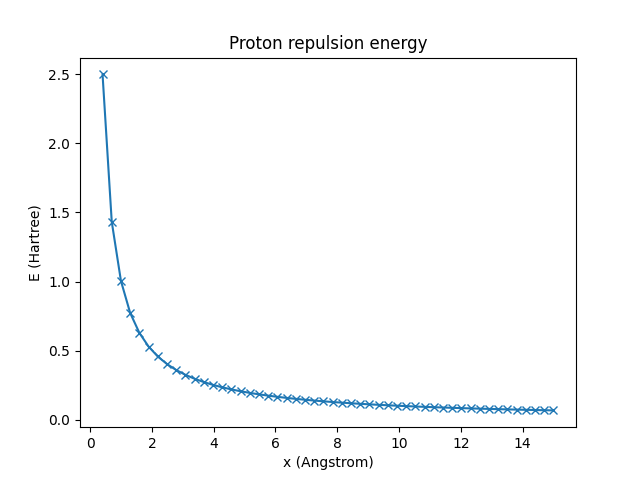
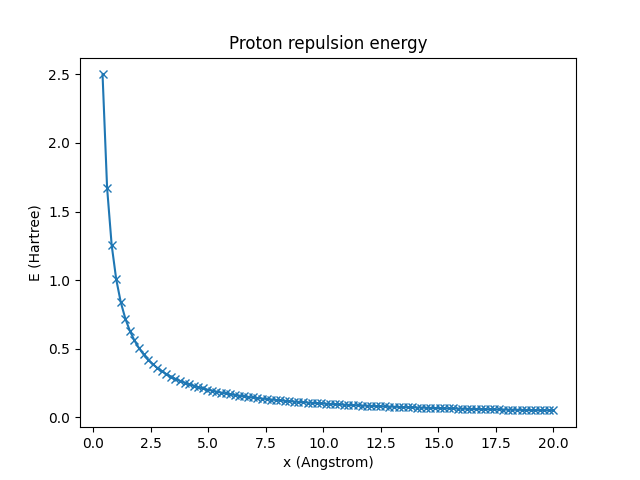
last becke script + Energy plots

diff --git a/examples/dft/H2_RHF_STO3G_becke.py b/examples/dft/H2_RHF_STO3G_becke.py
@@ -12,7 +12,7 @@ import matplotlib.pyplot as plt
 from becke_partitionning import normalized_cell_functions
 
 pi = np.pi
-seed = 123
+seed = 12
 np.random.seed(seed)
 
 #############################################
@@ -231,27 +231,42 @@ def Coulomb(Vee,P):
     Vcoulomb = np.einsum('ijkl,kl->ij',Vee,P) 
     return Vcoulomb
 
-def density(X,P,S):
+def density(rho,orbitals,P,S):
     """computing density at each points of discretized grid
 
     X : Points where to compute density
     P : density matrix
     S : overlap matrix
     """
-    B = np.hstack([orbital(X) for orbital in orbitals])
-    BB = np.einsum('ni,nj->nij',B,B)
-    rho = np.einsum('ij,nij->n',P,BB).reshape(-1,1) 
+    n = len(orbitals)
+
+    # computing volumic functionnal potential beforehand
+    for ii in range(n):
+        for jj in range(ii+1,n):
+            # center of the first cell
+            R1 = orbitals[ii].x
+            # center of the secind cell
+            R2 = orbitals[jj].x
+
+            # 1 -> 2
+            # centering integrals at center of cell 1
+            Dx = X_cartesian_int + R1
+            B = np.hstack([orbital(Dx) for orbital in orbitals])
+            BB = np.einsum('ni,nj->nij',B,B)
+            rho[ii,jj,0] = np.einsum('ij,nij->n',P,BB).reshape(-1,1) 
+
+            # 2 -> 1
+            # centering integrals at center of cell2
+            Dx = X_cartesian_int + R2
+            B = np.hstack([orbital(Dx) for orbital in orbitals])
+            BB = np.einsum('ni,nj->nij',B,B)
+            rho[ii,jj,1] = np.einsum('ij,nij->n',P,BB).reshape(-1,1) 
 
     # L1-normalization the density with Density and Overlap matrices
     norm = np.einsum('ij,ij',P,S)
     return rho/norm
 
-def vx(rho):
-    """volumic LDA-functionnal"""
-    return -(3.0*rho/pi)**(1/3)
-
-
-def LDA(orbitals,P,S):
+def LDA(orbitals,rho):
     """LDA operator in atomic orbital basis
 
     orbitals : list containing AO objects
@@ -269,23 +284,14 @@ def LDA(orbitals,P,S):
     # computing volumic functionnal potential beforehand
     for ii in range(n):
         for jj in range(ii+1,n):
-            # center of the first cell
-            R1 = orbitals[ii].x
-            # center of the secind cell
-            R2 = orbitals[jj].x
-
             # 1 -> 2
             # centering integrals at center of cell 1
-            Dx = X_cartesian_int + R1
-            rho = density(Dx,P,S)
-            vx_X = vx(rho)
+            vx_X = vxc(rho[ii,jj,0])
             Vx_X[ii,jj,0] = vx_X
 
             # 2 -> 1
             # centering integrals at center of cell2
-            Dx = X_cartesian_int + R2
-            rho = density(Dx,P,S)
-            vx_X = vx(rho)
+            vx_X = vxc(rho[ii,jj,1])
             Vx_X[ii,jj,1] = vx_X
 
     # loop over AO
@@ -310,7 +316,7 @@ def LDA(orbitals,P,S):
                     # fuzzy cell weight function centered at 1
                     wcell, _ = normalized_cell_functions(Dxx,R1,R2)
                     # Chebyshev + Lebedenev quadrature + variable substitution for radial component (R/Mu)
-                    Vx[i,j] += np.einsum(
+                    Vx[i,j] += 4.0*pi*np.einsum(
                         'ij,ij',
                         wcell*orbital_i(Dxx)*orbital_j(Dxx)*vx_X*subs,
                         Wint
@@ -320,7 +326,7 @@ def LDA(orbitals,P,S):
                     vx_X = Vx_X[ii,jj,1]
                     Dxx = X_cartesian_int + R2
                     _, wcell = normalized_cell_functions(Dxx,R1,R2)
-                    Vx[i,j] += np.einsum(
+                    Vx[i,j] += 4.0*pi*np.einsum(
                         'ij,ij',
                         wcell*orbital_i(Dxx)*orbital_j(Dxx)*vx_X*subs,
                         Wint
@@ -334,11 +340,20 @@ def density_matrix(c):
     c = c[:,0:1]
     return  2.0 * c@c.T
 
+
+def vxc(rho):
+    """volumic LDA-functionnal"""
+    vx = -(3.0*rho/pi)**(1/3)
+    vc = 0.0
+    return vx + vc
+
 def exc(rho):
     """volumic exchance-correlation energy"""
-    return -(3.0/4.0)*(3.0/pi*rho)**(1/3)
+    ex = -(3.0/4.0)*(3.0/pi*rho)**(1/3)
+    ec = 0.0
+    return ex + ec 
 
-def energy(orbitals,Hcore,Vcoulomb,S,P):
+def energy(rho,orbitals,Hcore,Vcoulomb,P):
     """computing energy of the system
     orbitals : list of AO objects
     Hcore : Core Hamiltonian in AO basis
@@ -347,13 +362,12 @@ def energy(orbitals,Hcore,Vcoulomb,S,P):
     P : density matrix
     """
     Ecore    = np.sum(P*Hcore)
-    Ecoulomb = np.sum(P*Vcoulomb)/2.0
-    #rho      = density(Xint,orbitals,P)
-    #Exc      = np.sum(rho*exc(rho))*dx**3
+    Ecoulomb = np.sum(P*Vcoulomb*0.5)
 
     Exc = 0.0
-    n = len(orbitals)
+
     # loop over fuzzy cells
+    n = len(orbitals)
     for ii in range(n):
         for jj in range(ii+1,n):
             R1 = orbitals[ii].x
@@ -361,21 +375,19 @@ def energy(orbitals,Hcore,Vcoulomb,S,P):
 
             # 1 -> 2
             Dx = X_cartesian_int + R1
-            rho = density(Dx,P,S)
             wcell, _ = normalized_cell_functions(Dx,R1,R2)
-            Exc += np.einsum(
+            Exc += 4.0*pi*np.einsum(
                 'ij,ij',
-                wcell*rho*exc(rho)*subs,
+                wcell*rho[ii,jj,0]*exc(rho[ii,jj,0])*subs,
                 Wint
             )
 
             # 2 -> 1
             Dx = X_cartesian_int + R2
-            rho = density(Dx,P,S)
             _, wcell = normalized_cell_functions(Dx,R1,R2)
-            Exc += np.einsum(
+            Exc += 4.0*pi*np.einsum(
                 'ij,ij',
-                wcell*rho*exc(rho)*subs,
+                wcell*rho[ii,jj,1]*exc(rho[ii,jj,1])*subs,
                 Wint
             )
     return Ecore , Ecoulomb , Exc
@@ -386,21 +398,22 @@ def scf_loop(orbitals,molecule,params):
     Niter = params['Niter']
     n = len(orbitals)
 
-#    # computing product of AO at each integration points
-#    B = np.hstack([orbital(Xint) for orbital in orbitals])
-#    BB = np.einsum('ni,nj->nij',B,B)
-
     # density matrix
-    P = np.random.uniform(size=[n,n])#np.zeros([n,n])
+    #P = np.random.uniform(size=[n,n])
+    P = np.zeros([n,n])
+
+    # values of density at quadrature points around each Hydrogen atom 
+    # initial density at zero
+    rho = np.zeros([n,n,2,len(X_cartesian_int),1]) 
 
     # compute integrals 
     T   = T_int(orbitals)
     Vep = Vep_int(orbitals,molecule)
     Vee = Vee_int(orbitals)
+
     S = overlap_int(orbitals)
     S12 = linalg.sqrtm(S)
     S_12 = linalg.inv(S12)
-    del(S12)
 
     # core Hamiltonian
     Hcore = T + Vep
@@ -417,7 +430,7 @@ def scf_loop(orbitals,molecule,params):
         Vcoulomb = Coulomb(Vee,P)
 
         # exchange-correlation functionnal
-        Vx, Vc = LDA(orbitals,P,S)
+        Vx, Vc = LDA(orbitals,rho)
 
         # Fock operator 
         F = Hcore + Vcoulomb + Vx + Vc
@@ -432,14 +445,13 @@ def scf_loop(orbitals,molecule,params):
 
         # compute new density
         #rho = density(Xint,orbitals,P)
-        # rho = density(X_cartesian_int,BB,P)
+        rho = density(rho,orbitals,P,S)
 
         # compute energy
-        Ecore , Ecoulomb , Exc = energy(orbitals,Hcore,Vcoulomb,S,P)
+        Ecore , Ecoulomb , Exc = energy(rho,orbitals,Hcore,Vcoulomb,P)
         E = Ecore + Ecoulomb + Exc
 
         if abs(E-E_old) < tol:
-        #if abs(E-E_old) < tol*abs(E):
             return Ecore , Ecoulomb , Exc, c, eigval
 
     print('Not converged...')
@@ -450,7 +462,7 @@ def scf_loop(orbitals,molecule,params):
 ####################################
 # Quadrature weights/points
 # for radial component
-Nr = 50
+Nr = 100
 ii  = np.arange(1,Nr+1).reshape(-1,1) 
 sin_i = np.sin(ii*pi/(Nr+1))
 cos_i = np.cos(ii*pi/(Nr+1))
@@ -481,8 +493,8 @@ X_spherical_int = np.concatenate([
     ],
     axis=1
 )
-Phi_int = X_spherical_int[:,2:3]
 R_int   = X_spherical_int[:,0:1]
+Phi_int = X_spherical_int[:,2:3]
 Mu_int  = (R_int - rm)/(R_int + rm)
 Wint = np.concatenate([
         np.tile(Wr_quadrature,(len(Wangular_quadrature),1)),
@@ -518,11 +530,11 @@ c3 = 0.4446345422E+00
 coeff = np.array([c1,c2,c3])
 
 # distance between the Hs
-n = 50
-dlin = np.linspace(0.4,15,n)
+n = 100
+dlin = np.linspace(0.4,20,n)
 
 # parameters of the scp loop
-params = {'tol':1e-7,'Niter':200}
+params = {'tol':1e-8,'Niter':200}
 
 E_list = []
 Ecore_list = []
@@ -561,7 +573,7 @@ for i,d in enumerate(dlin):
     orbitals = (orbitalH1, orbitalH2)
 
     # scf loop
-    Ecore , Ecoulomb , Exc, c, eigval = scf_loop(orbitals,molecule,params)
+    Ecore , Ecoulomb , Exc, _, _ = scf_loop(orbitals,molecule,params)
     Eelec = Ecore + Ecoulomb + Exc
 
     # proton-proton interaction
@@ -574,9 +586,9 @@ for i,d in enumerate(dlin):
     Epp_list.append(Epp)
 
     print(f"Opti {i+1}/{n} done!")
-    print(f'intermolecular distance = {d} Angstrom')
-    print(f'c = {c[:,0]}')
-    print(f'eigenvalue = {eigval[0]}\n')
+#    print(f'intermolecular distance = {d} Angstrom')
+#    print(f'c = {c[:,0]}')
+    #print(f'eigenvalue = {eigval[0]}\n')
 
 #results = pstats.Stats(profile)
 #results.sort_stats(pstats.SortKey.TIME)
